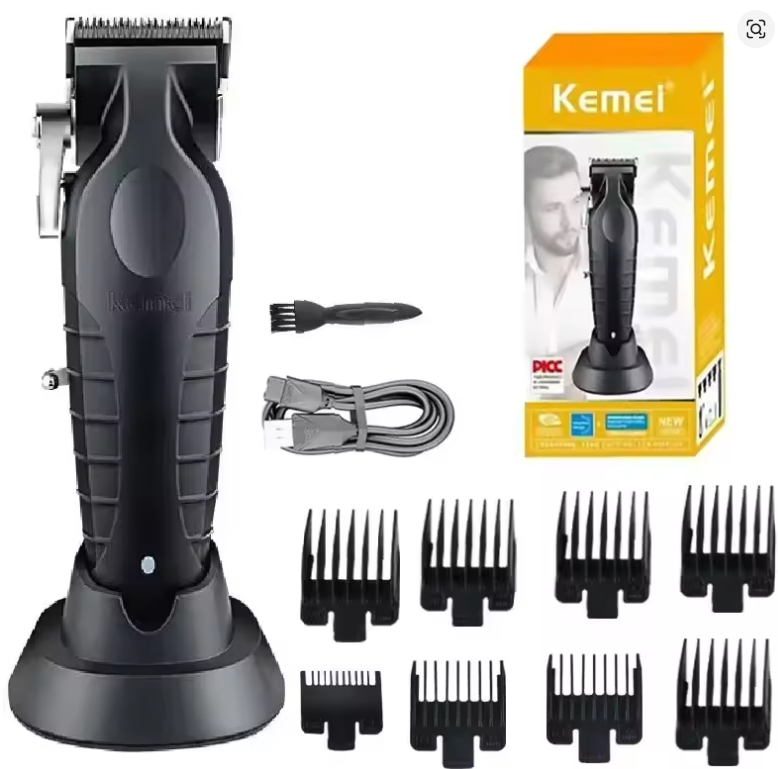
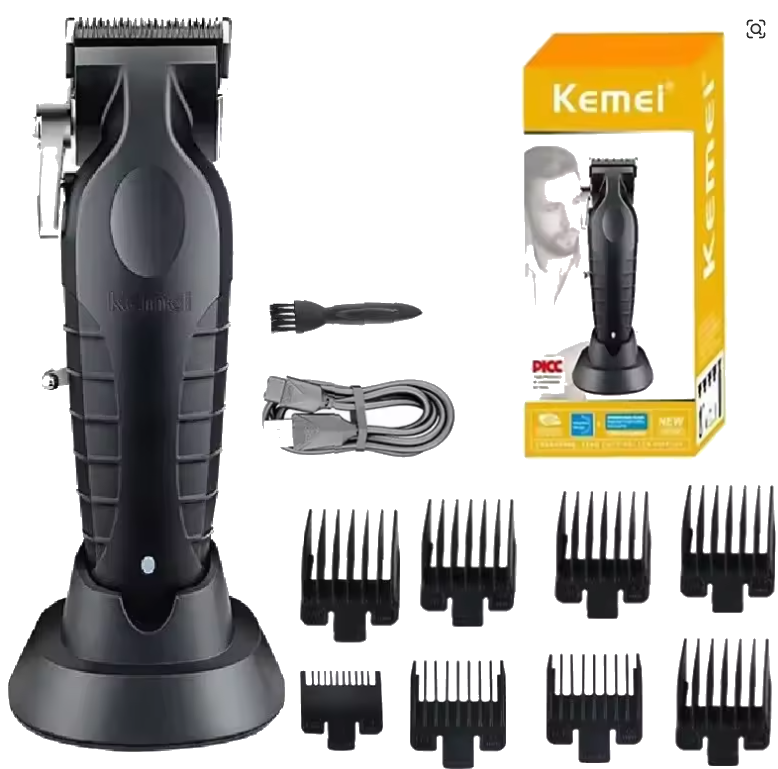
fix: convertir imagenes del hero a PNGs transparentes reales sin fondo blanco

diff --git a/index.html b/index.html
@@ -292,7 +292,7 @@
     <div class="hero-v2-showcase" aria-hidden="true">
       <!-- Main featured product -->
       <div class="hero-prod-main">
-        <img src="images/cat_shavers.png" alt="Shaver Kemei profesional dorado" class="hero-prod-img-main">
+        <img src="images/cat_shavers.png?v=transp1" alt="Shaver Kemei profesional dorado" class="hero-prod-img-main">
         <div class="hero-prod-tag">
           <span class="hero-prod-tag-pill">Más vendido</span>
         </div>
@@ -301,11 +301,11 @@
       <!-- Secondary products -->
       <div class="hero-prod-secondaries">
         <div class="hero-prod-card">
-          <img src="images/cat_clippers.png" alt="Clipper Kemei profesional">
+          <img src="images/cat_clippers.png?v=transp1" alt="Clipper Kemei profesional">
           <span>Clippers</span>
         </div>
         <div class="hero-prod-card">
-          <img src="images/cat_trimmers.png" alt="Trimmer WMARK profesional">
+          <img src="images/cat_trimmers.png?v=transp1" alt="Trimmer WMARK profesional">
           <span>Trimmers</span>
         </div>
       </div>

diff --git a/css/style.css b/css/style.css
@@ -640,8 +640,7 @@ input, select { font-family: inherit; }
   max-width: 240px;
   height: 220px;
   object-fit: contain;
-  mix-blend-mode: lighten;
-  filter: drop-shadow(0 8px 32px rgba(0,0,0,0.6));
+  filter: drop-shadow(0 12px 28px rgba(0,0,0,0.65));
   transition: transform 0.4s ease;
   animation: float-product 5s ease-in-out infinite alternate;
 }
@@ -706,8 +705,7 @@ input, select { font-family: inherit; }
   max-width: 90px;
   height: 80px;
   object-fit: contain;
-  mix-blend-mode: lighten;
-  filter: drop-shadow(0 4px 12px rgba(0,0,0,0.5));
+  filter: drop-shadow(0 6px 16px rgba(0,0,0,0.55));
 }
 
 .hero-prod-card span {
